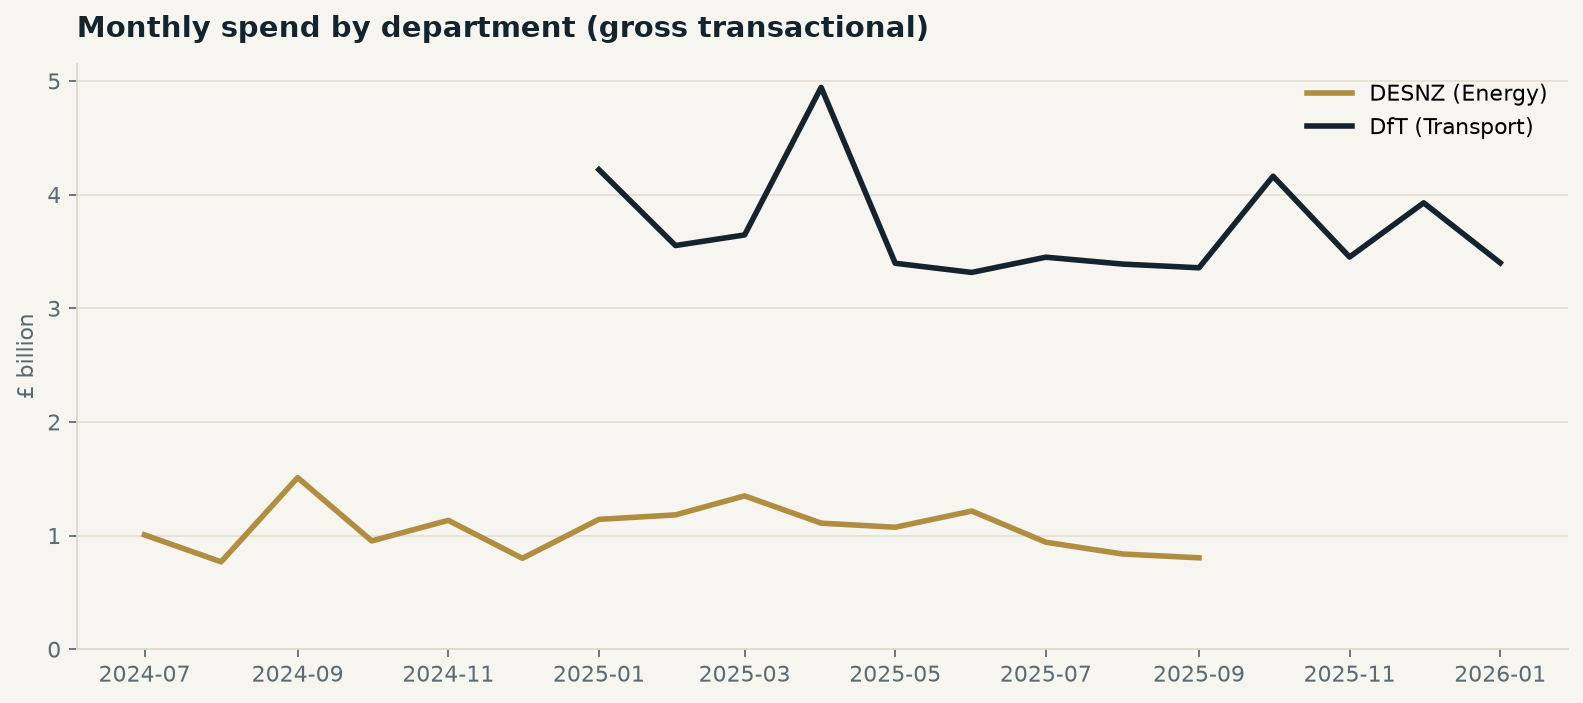
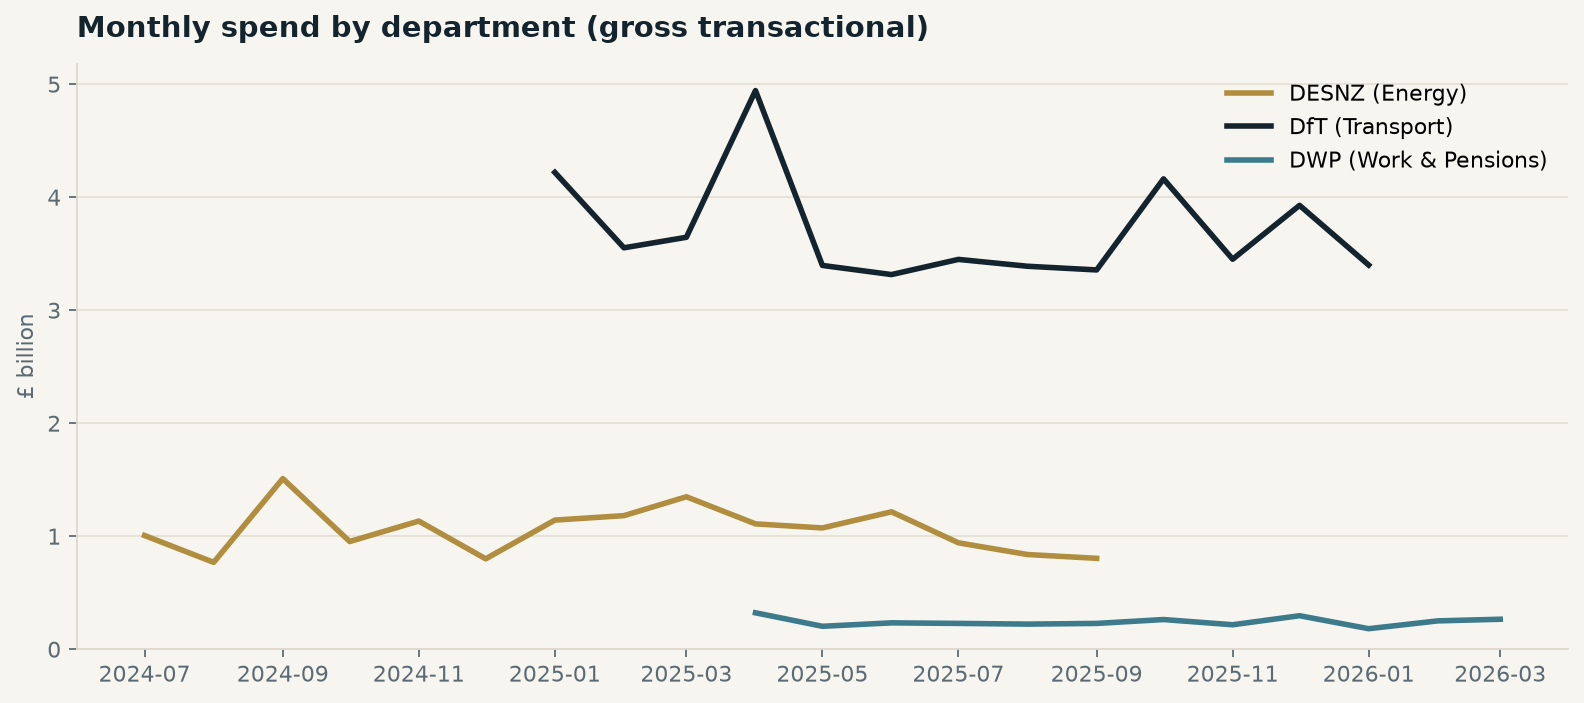
Add DWP as third department; Search API discovery and Excel-serial date handling

diff --git a/download_dwp.py b/download_dwp.py
@@ -1,0 +1,74 @@
+"""DWP spend over £25k downloader (transparency-filtered)."""
+import json
+import sys
+import urllib.parse
+import urllib.request
+from pathlib import Path
+
+SEARCH = "https://www.gov.uk/api/search.json"
+CONTENT = "https://www.gov.uk/api/content"
+OUT = Path("data/raw/dwp")
+HEADERS = {"User-Agent": "Mozilla/5.0 (portfolio data fetch)"}
+DEFAULT_LIMIT = 15
+
+
+def get_json(url: str) -> dict:
+    req = urllib.request.Request(url, headers=HEADERS)
+    with urllib.request.urlopen(req, timeout=30) as r:
+        return json.load(r)
+
+
+def main() -> None:
+    arg = sys.argv[1] if len(sys.argv) > 1 else None
+    limit = None if arg == "all" else (int(arg) if arg else DEFAULT_LIMIT)
+    OUT.mkdir(parents=True, exist_ok=True)
+
+    qs = urllib.parse.urlencode({
+        "filter_organisations": "department-for-work-pensions",
+        "filter_content_store_document_type": "transparency",
+        "order": "-public_timestamp",
+        "count": "200",
+        "fields": "link",
+    })
+    results = get_json(f"{SEARCH}?{qs}").get("results", [])
+    pages = [r["link"] for r in results
+             if "dwp-spending-over-25000" in r.get("link", "")]
+
+    if not pages:
+        print("No DWP spend pages found — the API may have changed.")
+        return
+    if limit:
+        pages = pages[:limit]
+    print(f"Found {len(pages)} DWP monthly pages.\n")
+
+    got = 0
+    for bp in pages:
+        slug = bp.rstrip("/").split("/")[-1]
+        try:
+            page = get_json(CONTENT + bp)
+        except Exception as err:
+            print(f"  ! {slug}: {err}")
+            continue
+        csvs = [a for a in page.get("details", {}).get("attachments", [])
+                if a.get("url", "").lower().endswith(".csv")]
+        if not csvs:
+            print(f"  - no CSV on {slug}")
+            continue
+        dest = OUT / f"{slug}.csv"
+        if dest.exists():
+            print(f"  = already have {dest.name}")
+            continue
+        try:
+            req = urllib.request.Request(csvs[0]["url"], headers=HEADERS)
+            with urllib.request.urlopen(req, timeout=60) as resp:
+                dest.write_bytes(resp.read())
+            got += 1
+            print(f"  + {dest.name}")
+        except Exception as err:
+            print(f"  ! {dest.name}: {err}")
+
+    print(f"\nDone. {got} new file(s) in {OUT}")
+
+
+if __name__ == "__main__":
+    main()

diff --git a/chart_image.py b/chart_image.py
@@ -1,0 +1,48 @@
+"""Render monthly spend by department to assets/spend_by_department.png."""
+from pathlib import Path
+import duckdb
+import matplotlib
+matplotlib.use("Agg")
+import matplotlib.pyplot as plt
+
+con = duckdb.connect("spend.duckdb", read_only=True)
+df = con.execute("""
+    SELECT date_trunc('month', date) AS month,
+           department, SUM(amount) / 1e9 AS spend_bn
+    FROM spend GROUP BY 1, 2 ORDER BY 1, 2
+""").fetchdf()
+
+# Print exact per-department figures (for the README).
+summary = con.execute("""
+    SELECT department, COUNT(*) AS rows, ROUND(SUM(amount)/1e9, 1) AS bn,
+           MIN(date) AS first, MAX(date) AS last
+    FROM spend GROUP BY 1 ORDER BY 1
+""").fetchdf()
+print(summary.to_string(index=False))
+
+COLORS = {"dft": "#14242E", "desnz": "#B08D3F", "dwp": "#3D7A8C"}
+LABELS = {"dft": "DfT (Transport)", "desnz": "DESNZ (Energy)",
+          "dwp": "DWP (Work & Pensions)"}
+
+fig, ax = plt.subplots(figsize=(10, 4.5), dpi=160)
+fig.patch.set_facecolor("#F7F5F0")
+ax.set_facecolor("#F7F5F0")
+for dept, g in df.groupby("department"):
+    ax.plot(g["month"], g["spend_bn"], linewidth=2.5,
+            color=COLORS.get(dept, "#5C6B73"), label=LABELS.get(dept, dept))
+ax.set_title("Monthly spend by department (gross transactional)",
+             loc="left", fontsize=13, color="#14242E", fontweight="bold", pad=12)
+ax.set_ylabel("£ billion", color="#5C6B73")
+ax.legend(frameon=False, loc="upper right")
+ax.set_ylim(bottom=0)
+ax.grid(axis="y", color="#E5E0D6", linewidth=0.8)
+ax.tick_params(colors="#5C6B73")
+ax.spines["top"].set_visible(False)
+ax.spines["right"].set_visible(False)
+for s in ("left", "bottom"):
+    ax.spines[s].set_color("#DED8CB")
+Path("assets").mkdir(exist_ok=True)
+fig.tight_layout()
+fig.savefig("assets/spend_by_department.png",
+            facecolor=fig.get_facecolor(), bbox_inches="tight")
+print("wrote assets/spend_by_department.png")

diff --git a/load_spend.py b/load_spend.py
@@ -50,14 +50,17 @@ SYNONYMS: dict[str, set[str]] = {
     "date": {
         "date", "transactiondate", "paymentdate", "postingdate",
         "invoicedate", "clearingdate", "documentdate", "dateofpayment",
+        "invoicepaiddate",
     },
     "expense_type": {
         "expensetype", "expendituretype", "subjective", "subjectivecode",
         "subjectiveheading", "categoryl2", "expensecategory",
+        "invoiceaccountdescription",
     },
     "expense_area": {
         "expensearea", "costcentre", "costcenter", "directorate",
         "businessunit", "responsibilitygroup", "team",
+        "invoicecostcentredescription",
     },
     "supplier": {
         "supplier", "suppliername", "vendor", "vendorname", "payee",
@@ -66,11 +69,12 @@ SYNONYMS: dict[str, set[str]] = {
     "transaction_number": {
         "transactionnumber", "transactionno", "transno", "documentno",
         "documentnumber", "paymentref", "paymentreference",
-        "invoicenumber", "invoiceno",
+        "invoicenumber", "invoiceno", "paymentnumber",
     },
     "amount": {
         "amount", "amountf", "amountgbp", "amount£", "apamount",
         "value", "netamount", "grossamount", "spend", "totalamount",
+        "transparencyinvoiceamount",
     },
     "description": {
         "narrative", "description", "details", "expensedescription",
@@ -137,6 +141,24 @@ def _read_csv(path: Path) -> pd.DataFrame | None:
     return None
 
 
+def _parse_dates(series: pd.Series) -> pd.Series:
+    """Parse dates that may be text (DD/MM/YYYY etc.) OR Excel serial numbers.
+
+    Some departments (e.g. certain DWP months) export the date column as
+    Excel's internal serial day-count (e.g. '45877') instead of a date string.
+    Text values are parsed normally; bare integers are converted from the
+    Excel epoch (1899-12-30)."""
+    s = series.astype(str).str.strip()
+    out = pd.to_datetime(s, errors="coerce", dayfirst=True)
+
+    # Rescue rows that failed but look like a plain Excel serial number.
+    failed = out.isna() & s.str.fullmatch(r"\d{4,6}")
+    if failed.any():
+        serials = pd.to_numeric(s[failed], errors="coerce")
+        out.loc[failed] = pd.to_datetime(serials, unit="D", origin="1899-12-30")
+    return out
+
+
 def _clean_amount(series: pd.Series) -> pd.Series:
     """'£1,234.50', '(500)', ' 25000 ' -> float. Parens = negative."""
     s = series.astype(str).str.strip()
@@ -190,7 +212,7 @@ def _canonicalise(df: pd.DataFrame, department: str, source_file: str) -> pd.Dat
     df = df[list(SYNONYMS.keys())].copy()
 
     df["amount"] = _clean_amount(df["amount"])
-    df["date"] = pd.to_datetime(df["date"], errors="coerce", dayfirst=True)
+    df["date"] = _parse_dates(df["date"])
     df["supplier"] = df["supplier"].astype(str).str.strip().str.upper()
 
     df.insert(0, "department", department)

diff --git a/README.md b/README.md
@@ -11,9 +11,9 @@ published departmental spend over £25,000 (Open Government Licence).
 
 ![Monthly spend by department over time](assets/spend_by_department.png)
 
-*Two departments plotted over time. DESNZ data ends Sep 2025 while DfT runs to
-Jan 2026 — exactly why cross-department comparison is restricted to the
-overlapping window rather than the raw totals.*
+*Three departments plotted over time, each with a different coverage window —
+exactly why cross-department comparison is restricted to the overlapping period
+rather than the raw totals.*
 
 ---
 
@@ -35,22 +35,28 @@ guardrails around an LLM, and being honest about a dataset's limits.
 
 | | |
 |---|---|
-| Departments | DfT (Transport), DESNZ (Energy) |
-| Transactions | 40,131 payments over £25k |
-| Total value | £64.0bn (gross transactional) |
-| Coverage | Jul 2024 – Jan 2026 |
+| Departments | DfT (Transport), DESNZ (Energy), DWP (Work & Pensions) |
+| Transactions | 157,701 payments over £25k |
+| Total value | £66.9bn (gross transactional) |
+| Coverage | Jul 2024 – Mar 2026 |
 
 Per department:
 
 - **DfT** — 33,272 rows · £48.2bn · Jan 2025 – Jan 2026
 - **DESNZ** — 6,859 rows · £15.8bn · Jul 2024 – Sep 2025
+- **DWP** — 117,570 rows · £2.9bn · Apr 2025 – Mar 2026
+
+DWP's profile is instructive: by far the most transactions but a moderate
+total — operational welfare spend is a high volume of mid-sized contractor and
+assessment payments, unlike DfT's handful of multi-billion infrastructure
+transactions.
 
 > **A note on the figures.** These are *gross transactional* totals — every
 > payment over £25k, including transfers between public bodies and to
 > arm's-length organisations — not net departmental budgets. They are larger
 > than budgets and should be read as transaction flow. The two departments'
 > coverage windows differ, so any cross-department comparison is restricted to
-> the overlapping period (Jan – Sep 2025).
+> the overlapping period (Apr – Sep 2025, where all three overlap).
 
 ---
 
@@ -123,15 +129,13 @@ sidebar.
 Asked *"compare total spend by department for the period where both departments
 have data,"* the model was **not** given the coverage dates. It wrote a query
 that computed each department's date bounds and intersected them
-(`MAX(min_date)` … `MIN(max_date)`) to derive the common window itself, then
-compared on a like-for-like basis:
+(`MAX(min_date)` … `MIN(max_date)`) to derive the common window itself — across
+all three departments — rather than naively summing mismatched ranges. That it
+reasons about the *shape* of the data, not just the keywords, is the point.
 
-- Over the overlapping Jan – Sep 2025 window: **DfT £30.0bn vs DESNZ £9.2bn**
-  (~3:1).
-
-The top supplier across both departments is Network Rail (£10.3bn) — a
-reminder that much of this spend is flow between public bodies, not payments to
-private vendors.
+The top supplier across the dataset is Network Rail (£10.3bn) — a reminder that
+much of this spend is flow between public bodies, not payments to private
+vendors.
 
 ---
 
@@ -177,12 +181,19 @@ split silently collapsed. Detecting *any* non-numeric, non-datetime column fixed
 it. A good reminder that "the data is fine" and "the chart is fine" are separate
 claims worth verifying separately.
 
+**Real-world data quirks.** Adding DWP surfaced two more: its publications are
+listed only via the GOV.UK Search API (filtered by document type), not as
+attachments on one page; and a few months export the date column as Excel
+serial numbers (e.g. `45877`) rather than `DD/MM/YYYY`. Both were diagnosed by
+inspecting the raw data directly, then handled in the loader.
+
 ---
 
 ## Limitations & next steps
 
-- **Two departments.** The pipeline is built to scale to more; adding a
-  department is a folder of CSVs plus any new header synonyms.
+- **Three departments.** The pipeline scales further; adding a department is a
+  folder of CSVs plus any new header synonyms. DWP needed both: new column
+  synonyms and handling for Excel serial-number dates in some months.
 - **Differing coverage windows.** Cross-department comparison is only valid over
   the overlap; the UI flags this rather than hiding it.
 - **Gross transactional figures**, not net budgets — stated throughout.